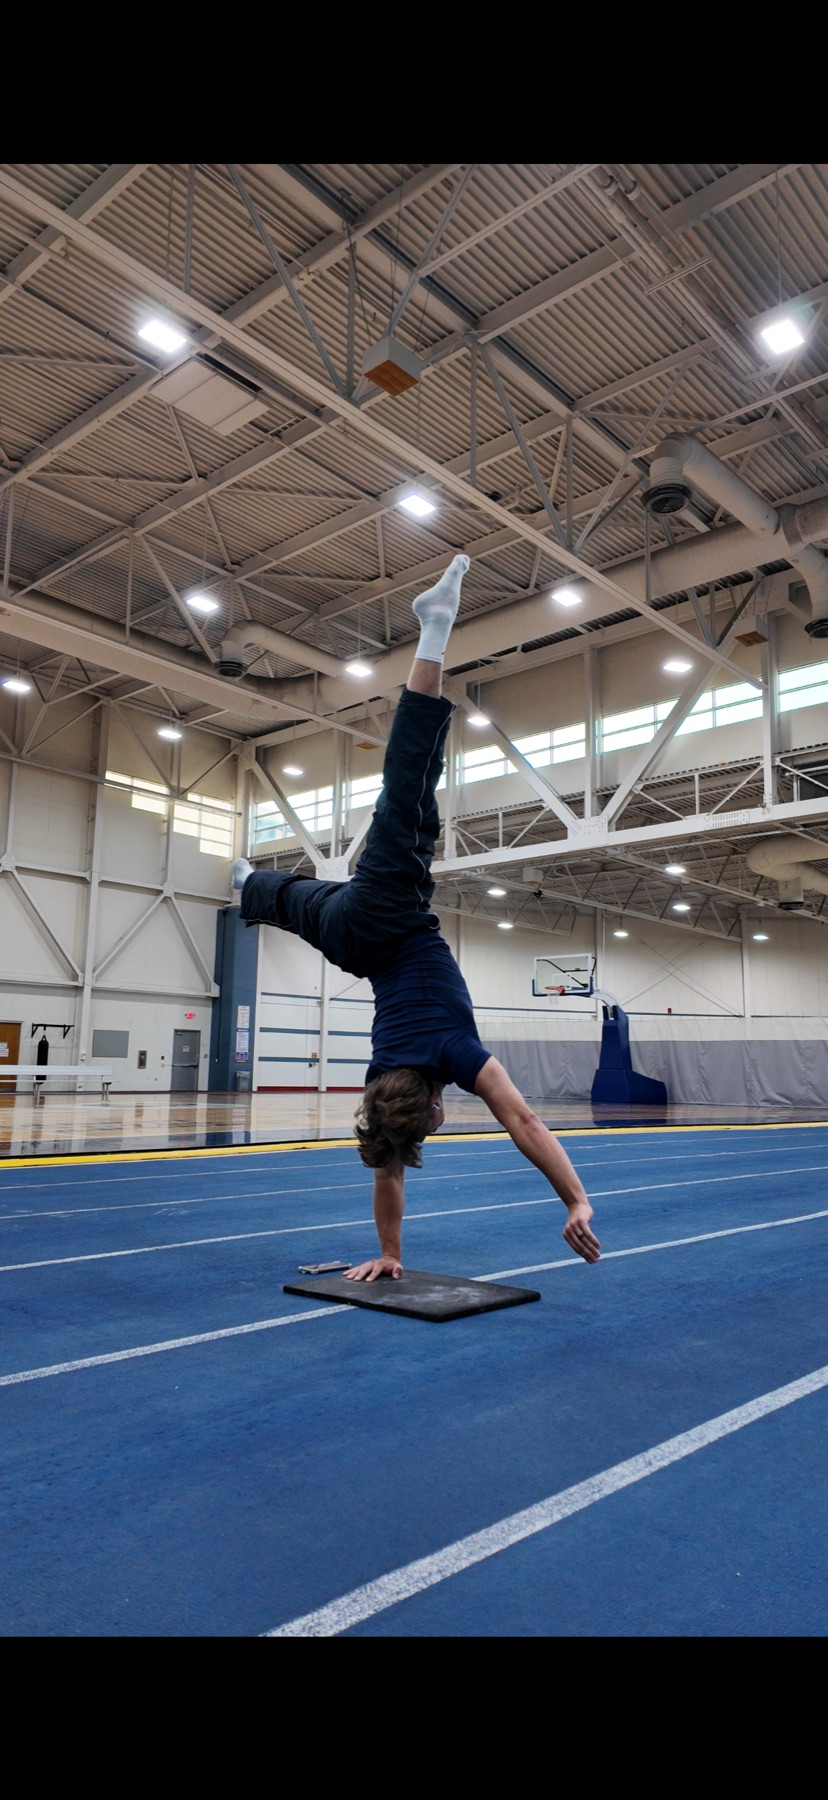
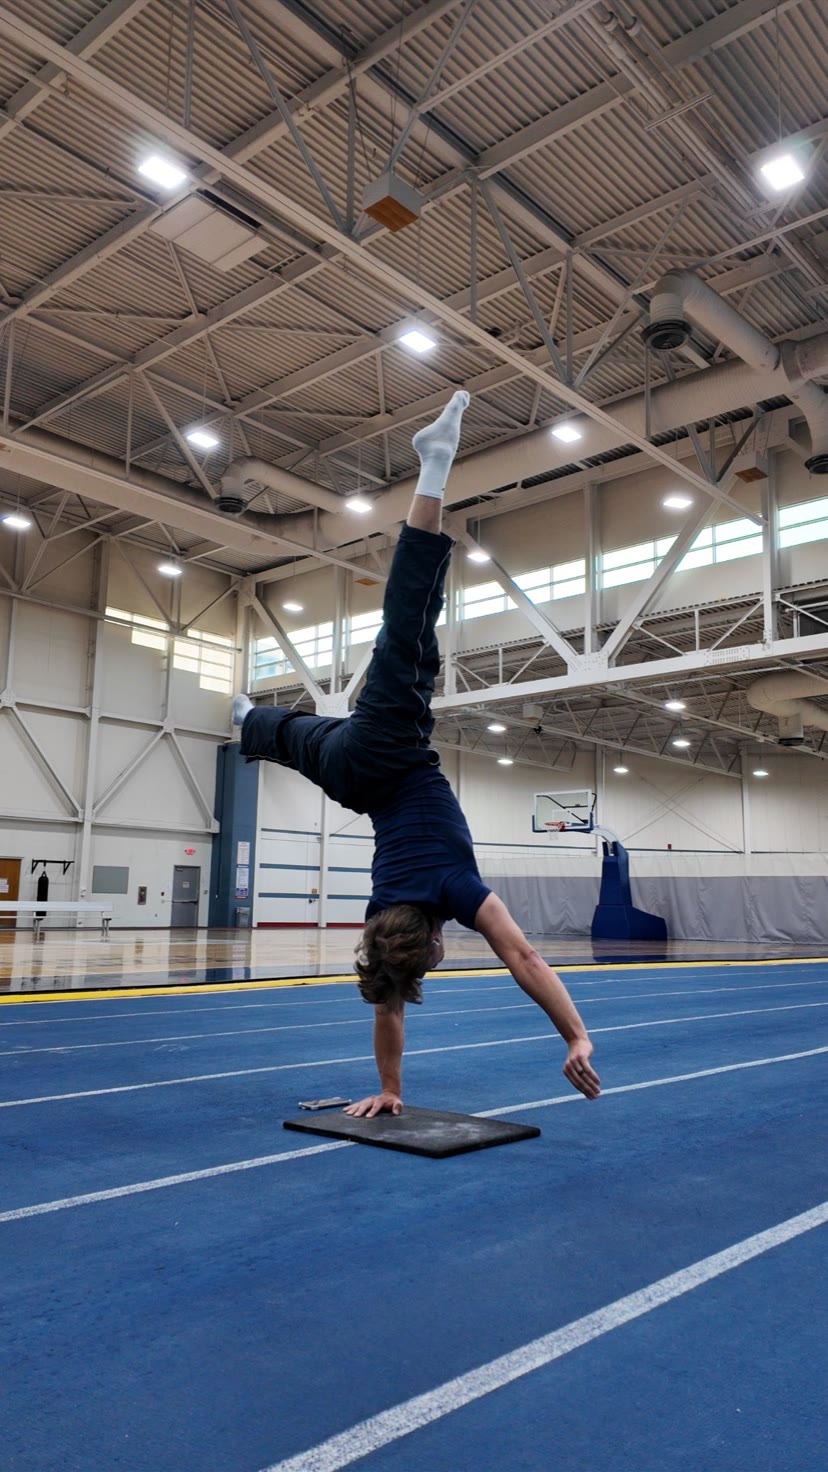
Not for everyone photo reformat

diff --git a/src/app/globals.css b/src/app/globals.css
@@ -783,18 +783,23 @@ input {
 }
 
 .exclusive__founder {
+  position: relative;
   margin: 1.25rem auto;
   width: min(260px, 72%);
+  aspect-ratio: 9 / 16;
   border: 1px solid rgba(255, 255, 255, 0.28);
   overflow: hidden;
+  background: transparent;
 }
 
 .exclusive__founder img {
+  position: absolute;
+  inset: 0;
   width: 100%;
-  height: auto;
-  display: block;
+  height: 100%;
   object-fit: cover;
   object-position: center;
+  display: block;
 }
 
 /* ─── Manifesto ─────────────────────────────────────────────────── */

diff --git a/src/components/ExclusiveProgram.tsx b/src/components/ExclusiveProgram.tsx
@@ -22,8 +22,8 @@ export function ExclusiveProgram() {
           <Image
             src={founder.secondary}
             alt=""
-            width={260}
-            height={360}
+            fill
+            sizes="260px"
             loading="lazy"
           />
         </div>
